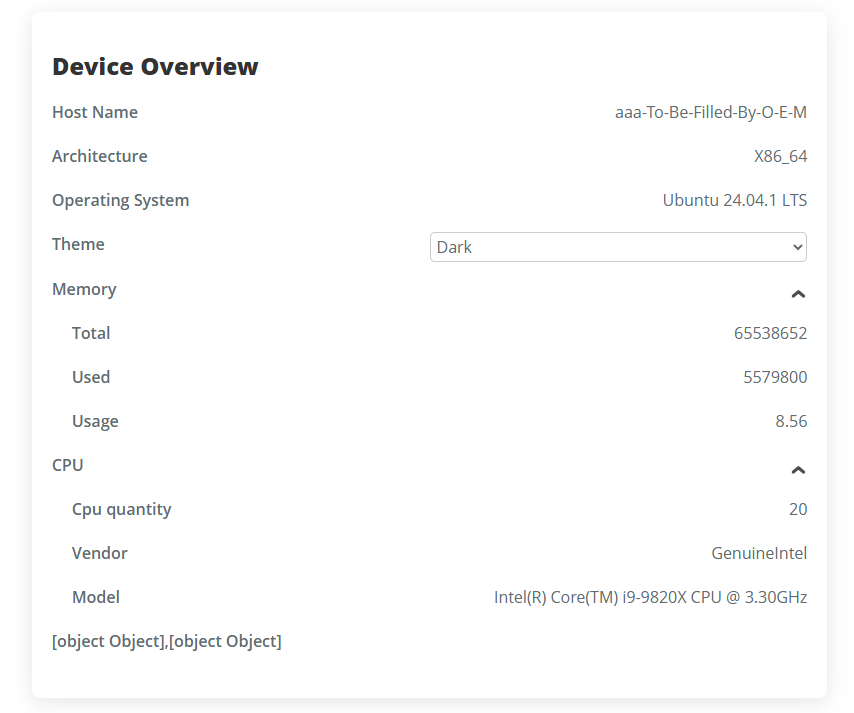
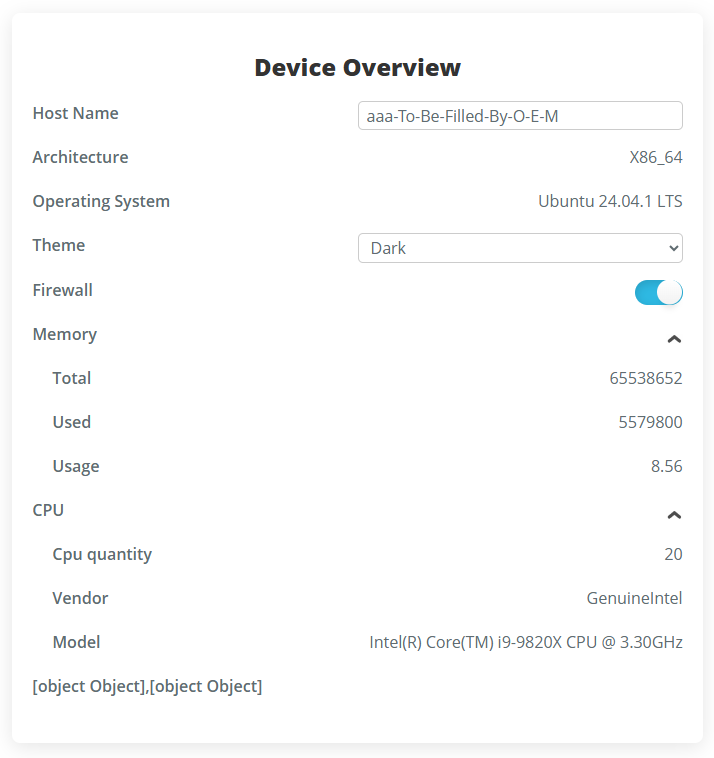
Add files via upload

diff --git a/config/base.css b/config/base.css
@@ -786,7 +786,7 @@ button::-moz-focus-inner {
   opacity:1;
 }
 
-.cfg_container label {
+.cfg_container label.group {
 	display: block;
 	margin-bottom: 5px;
 	font-weight: 500;
@@ -812,5 +812,45 @@ button::-moz-focus-inner {
 }
 .cfg_container button:hover {
 	background-color: #005A9E;
+}
+.cfg_container label.switch{
+  padding-top: 2px;
+}
+.cfg_container label.switch > input[type=checkbox] {
+  opacity: 0;
+  display: none;
+}
+
+.cfg_container label.switch > div.switch-btn {
+  position: relative;
+  width: 48px;
+  height: 25px;
+  background: #e5e5e5;
+  border-radius: 25.5px;
+  box-shadow: inset 0 3px 10px rgba(0, 0, 0, 0.15);
+  cursor:pointer;
+}
+
+.cfg_container label.switch > div.switch-btn:before {
+  content: "";
+  position: absolute;
+  height: 25px;
+  width: 25px;
+  background: linear-gradient(white, #f2f2f2);
+  left: 2px;
+  top: calc(50% - 1px);
+  transition: all 200ms ease-out;
+  cursor: pointer;
+  border-radius: 50%;
+  box-shadow: 0 8px 6px -4px rgba(0, 0, 0, 0.1);
+  transform: translateY(-50%);
+}
+
+.cfg_container label.switch > input[type=checkbox]:checked + div.switch-btn {
+  background: #2eb9e3;
+}
+
+.cfg_container label.switch > input[type=checkbox]:checked + div.switch-btn:before {
+  left: 22px;
 }
 

diff --git a/config/config.js b/config/config.js
@@ -7,7 +7,7 @@ function load_group(section, o)
     {
       var group = $('<div class="input-group'+(n.writable?" writable":"")+'">').appendTo(section);
       var label = n.label || n;
-      group.append("<label for='"+b+"'>"+label+"</label>");
+      group.append("<label class='group' for='"+b+"'>"+label+"</label>");
       switch (n.type)
       {
         case "array":
@@ -31,6 +31,17 @@ function load_group(section, o)
           {
             html += '<div>'+n.value+'</div>';
           }
+          var e = $(html).appendTo(group);
+          if (n.writable) e.addClass("writable");
+          e.attr("id",b);
+          e.attr("cfgType", n.type);
+          break;
+        case "bool":
+          var html=
+                '<label class=switch>'
+                  +'<input id=iosToggle type=checkbox />'
+                  +'<div class=switch-btn></div>'
+                +'</label>';
           var e = $(html).appendTo(group);
           if (n.writable) e.addClass("writable");
           e.attr("id",b);
